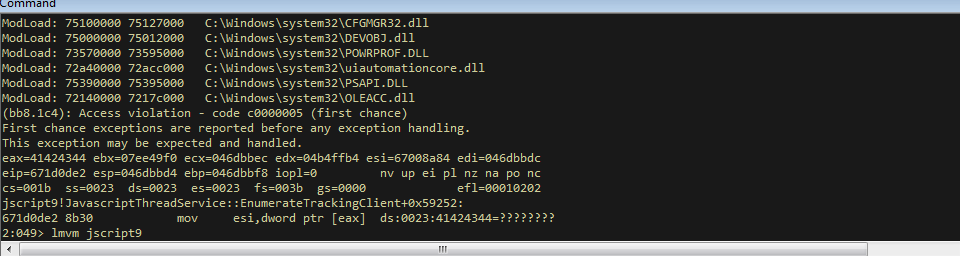
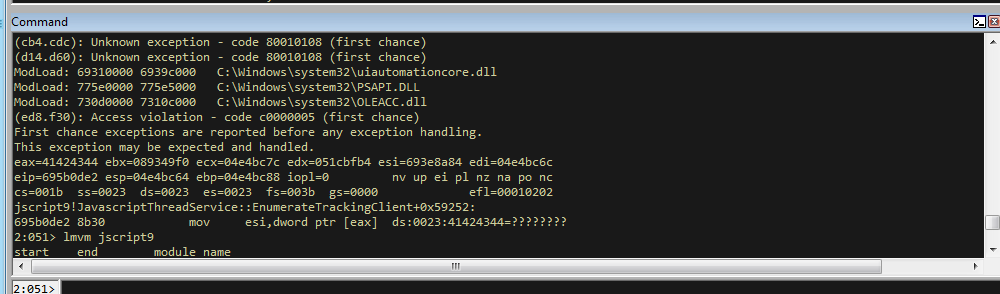
Site updated at 2018-05-15 20:38:46 UTC

diff --git a/blog/2018/05/15/cve-2016-0199/index.html b/blog/2018/05/15/cve-2016-0199/index.html
@@ -170,6 +170,8 @@ $(document).ready(
 
 
 <p>lmvm <module> - Dumps information about the module. Remember to use <module> and not &lt;module.dll>.</p>
+
+<p><img src="/images/blog/vulnerability/cve_2016_0199/2.PNG" title="[title manually exploit [alt text]]" ></p>
 </div>
 
 
